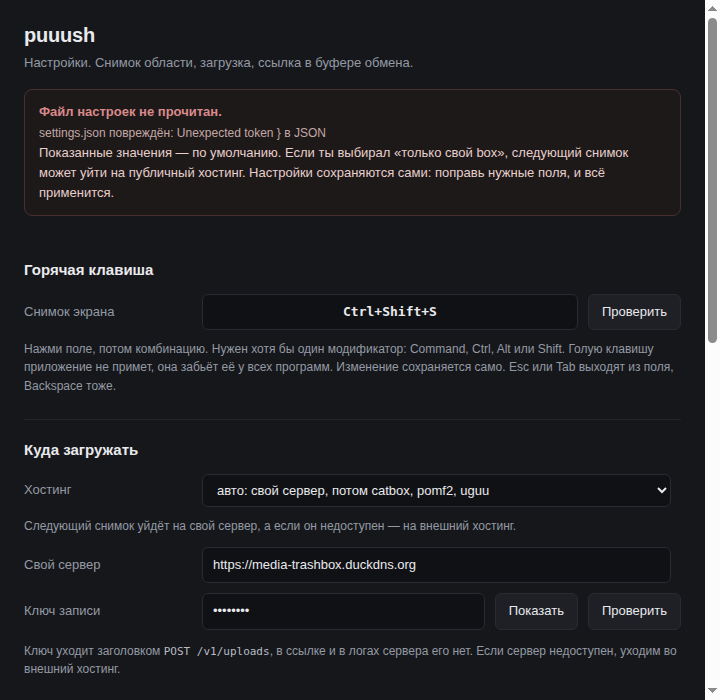
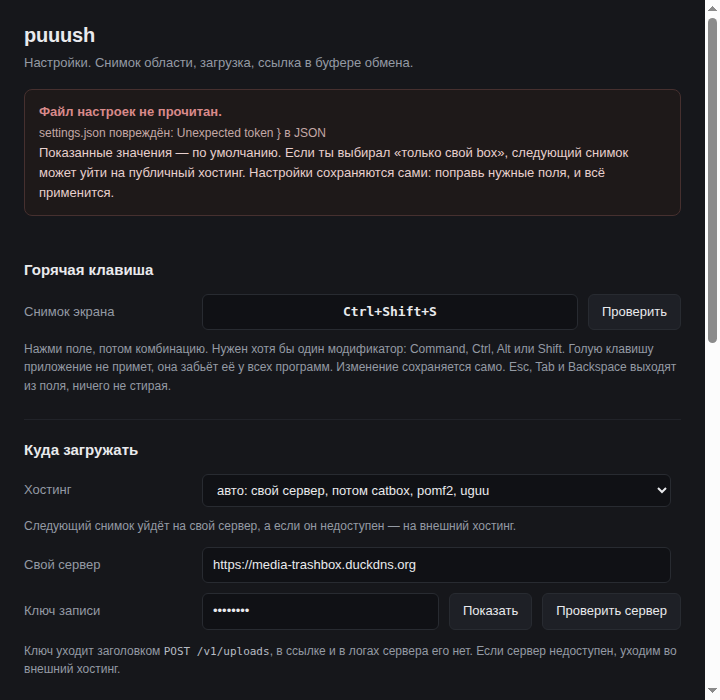
Третья итерация критики: IPC больше не глотает отказы
Оценка не сдвинулась, 19/32, и это справедливо: предыдущие правки легли в
текст слоя, а путь доставки был сломан так, что текст не показывался вовсе.

Корень в обёртке IPC: перехватив исключение, она возвращала null. Из-за
этого проверка сервера печатала зелёное «сервер отвечает, ключ подходит»
на любую ошибку, потому что у null не было ни files, ни статуса. Сбой
сохранения настроек выглядел как успех, настройки становились null, и
дальнейшее обращение к полю роняло окно до перезапуска. Теперь обработчик
уведомляет и пробрасывает исключение дальше.

Ещё:
- ручные пути («выбрать файл», «картинка из буфера», перетаскивание) теперь
  читают privacyDowngraded, как и путь с хоткея. Раньше они были мягче
  главного пути и молчали, когда файл ушёл наружу;
- успешное сохранение снимает баннер поломки настроек: баннер обещал, что
  восстановление возможно, хотя такого механизма в коде не было;
- две одинаковые кнопки «Проверить» с разным смыслом разведены: у хоткея
  так и осталось «Проверить», у сервера «Проверить сервер»;
- плашка статуса больше не говорит «готово» в двух состояниях: готов,
  работаю, принято, ошибка;
- история показывает дату с годом и понятную метку временной ссылки;
- у показа ключа появился aria-pressed;
- PRODUCT.md больше не называет число тестов, оно разъезжалось с реальностью.

Проверено в Chromium: 42 сценария в пяти наборах, включая главный — отказ
проверки сервера не окрашивается как успех, а сбой сохранения оставляет
[…]

Changed region(s): [[0.6417, 0.87, 0.9167, 0.9], [0.7333, 0.51, 0.9472, 0.54], [0.0306, 0.54, 0.2444, 0.57]]

diff --git a/src/settings.js b/src/settings.js
@@ -25,7 +25,7 @@ function setStatus(text, kind = '') {
   el.textContent = text || '';
   el.className = text ? 'show ' + kind : '';
   if (text) {
-    tag.textContent = kind === 'bad' ? 'ошибка' : (kind === 'ok' ? 'готово' : 'работаю');
+    tag.textContent = kind === 'bad' ? 'ошибка' : (kind === 'ok' ? 'принято' : 'работаю');
     tag.className = 'tag ' + (kind === 'bad' ? 'bad' : (kind === 'ok' ? 'ok' : 'busy'));
   } else {
     tag.textContent = 'готов';
@@ -228,6 +228,7 @@ $('showKey').addEventListener('click', () => {
   const shown = el.type === 'password';
   el.type = shown ? 'text' : 'password';
   $('showKey').textContent = shown ? 'Скрыть' : 'Показать';
+  $('showKey').setAttribute('aria-pressed', String(shown));
   el.focus();
 });
 
@@ -250,6 +251,7 @@ $('verifyServer').addEventListener('click', async () => {
         : `сервер отвечает, ключ подходит. На нём ${files} файлов, ${mb} МБ.`,
       'ok'
     );
+    $('broken').classList.remove('show');
   } catch (e) {
     serverState(`сервер не настроен или не отвечает: ${e && e.message ? e.message : e}`, 'bad');
   }
@@ -303,11 +305,16 @@ async function runUpload(label, run) {
       fail(`${label}: сервер не вернул ссылку`);
       return null;
     }
+    // Тот же разбор, что и в onProgress: ручные пути не должны быть мягче
+    // хоткей-пути. Раньше privacyDowngraded здесь просто игнорировался.
+    const downgraded = r.privacyDowngraded;
+    const head = downgraded
+      ? `внимание: свой сервер не сработал, файл ушёл на публичный ${r.host}`
+      : (r.copied === false ? 'буфер занят' : r.host);
     setStatus(
-      r.copied === false
-        ? `${r.url}\n\nбуфер занят, ссылка не скопирована, скопируй вручную`
-        : `${r.url}\n\n${r.host}${r.temp ? ', ссылка временная' : ''} — скопировано в буфер`,
-      r.copied === false ? 'bad' : 'ok'
+      `${r.url}\n\n${head}${r.temp ? ' · ссылка временная' : ''}` +
+      (r.copied === false ? ' — скопируй вручную' : ' — скопировано в буфер'),
+      r.copied === false || downgraded ? 'bad' : 'ok'
     );
     await loadHistory();
     return r;
@@ -381,10 +388,10 @@ function historyRow(item) {
   // Имя файла и источник в истории уже есть: store их пишет. Через неделю
   // человек узнаёт свою ссылку именно по ним, а не по голому адресу.
   const when = new Date(item.at).toLocaleString('ru-RU', {
-    day: '2-digit', month: '2-digit', hour: '2-digit', minute: '2-digit',
+    day: '2-digit', month: '2-digit', year: '2-digit', hour: '2-digit', minute: '2-digit',
   });
-  tdT.textContent = `${item.source || item.host} · ${when}` +
-    (item.temp ? ' · временная' : '');
+  tdT.textContent = `${item.source || item.host} · ${when} · ` +
+    (TEMP_LABEL[String(!!item.temp)] || '');
 
   const tdB = document.createElement('td');
   tdB.style.textAlign = 'right';

diff --git a/src/settings.html b/src/settings.html
@@ -175,8 +175,8 @@
     <p class="hint" id="hotkeyHint">
       Нажми поле, потом комбинацию. Нужен хотя бы один модификатор: Command, Ctrl,
       Alt или Shift. Голую клавишу приложение не примет, она забьёт её у всех
-      программ. Изменение сохраняется само. Esc или Tab выходят из поля,
-      Backspace тоже.
+      программ. Изменение сохраняется само. Esc, Tab и Backspace выходят из поля,
+      ничего не стирая.
     </p>
   </section>
 
@@ -196,8 +196,8 @@
         <label for="ownKey">Ключ записи</label>
         <input type="password" id="ownKey" class="grow" autocomplete="off"
                spellcheck="false" placeholder="ключ, который выдал сервер">
-        <button id="showKey" title="Показать или скрыть ключ">Показать</button>
-        <button id="verifyServer">Проверить</button>
+        <button id="showKey" aria-pressed="false" title="Показать или скрыть ключ">Показать</button>
+        <button id="verifyServer">Проверить сервер</button>
       </div>
       <p class="hint" id="serverState" role="status" aria-live="polite"></p>
       <p class="hint">
@@ -243,7 +243,7 @@
 
   <section>
     <h2>История</h2>
-    <div id="history"><div class="empty">пусто</div></div>
+    <div id="history"><div class="empty">пусто. Ссылки появятся здесь после первой загрузки.</div></div>
     <div class="row plain" style="margin-top:12px; grid-template-columns:auto 1fr">
       <button id="clearHistory">Очистить историю</button>
     </div>

diff --git a/src/main.js b/src/main.js
@@ -444,8 +444,12 @@ function registerIpc() {
       try {
         return await fn(_e, arg);
       } catch (err) {
+        // Уведомляем и пробрасываем дальше, чтобы рендерер увидел отказ.
+        // Раньше здесь возвращался null: проверка сервера показывала зелёный
+        // ответ на любую ошибку, а сбой сохранения настроек выглядел как
+        // успех и ломал окно до перезапуска.
         notify('puuush', String(err && err.message ? err.message : err));
-        return null;
+        throw err;
       }
     });
   handle('puuush:get-settings', () => store.getSettings());

diff --git a/src/store.js b/src/store.js
@@ -81,6 +81,11 @@ function readJson(name, fallback) {
   }
 }
 
+/** Настройки снова записаны и читаются: поломка снята. */
+function clearBroken() {
+  settingsBroken = null;
+}
+
 /** Что сломалось в настройках, либо null, если всё в порядке. */
 function brokenReason() {
   return settingsBroken;
@@ -147,6 +152,7 @@ function clearHistory() {
 module.exports = {
   DEFAULTS,
   brokenReason,
+  clearBroken,
   getSettings,
   setSettings,
   getHistory,

diff --git a/PRODUCT.md b/PRODUCT.md
@@ -98,7 +98,8 @@ Node-сервис без внешних зависимостей.
 
 - Снимки интерфейса: `docs/ui-settings.png`, `docs/ui-overlay.png`.
 - Живой сервер на `media-trashbox.duckdns.org` с работающим приёмом загрузок.
-- Набор тестов `test/puuush.test.js`, 38 проверок, без внешних зависимостей.
+- Набор тестов `test/puuush.test.js`, без внешних зависимостей, плюс проверки
+  в браузере на Playwright.
 - README с описанием установки, сборки и ограничений.
 
 Отсутствует и не должно выдумываться: пользователей и отзывов, цифр
